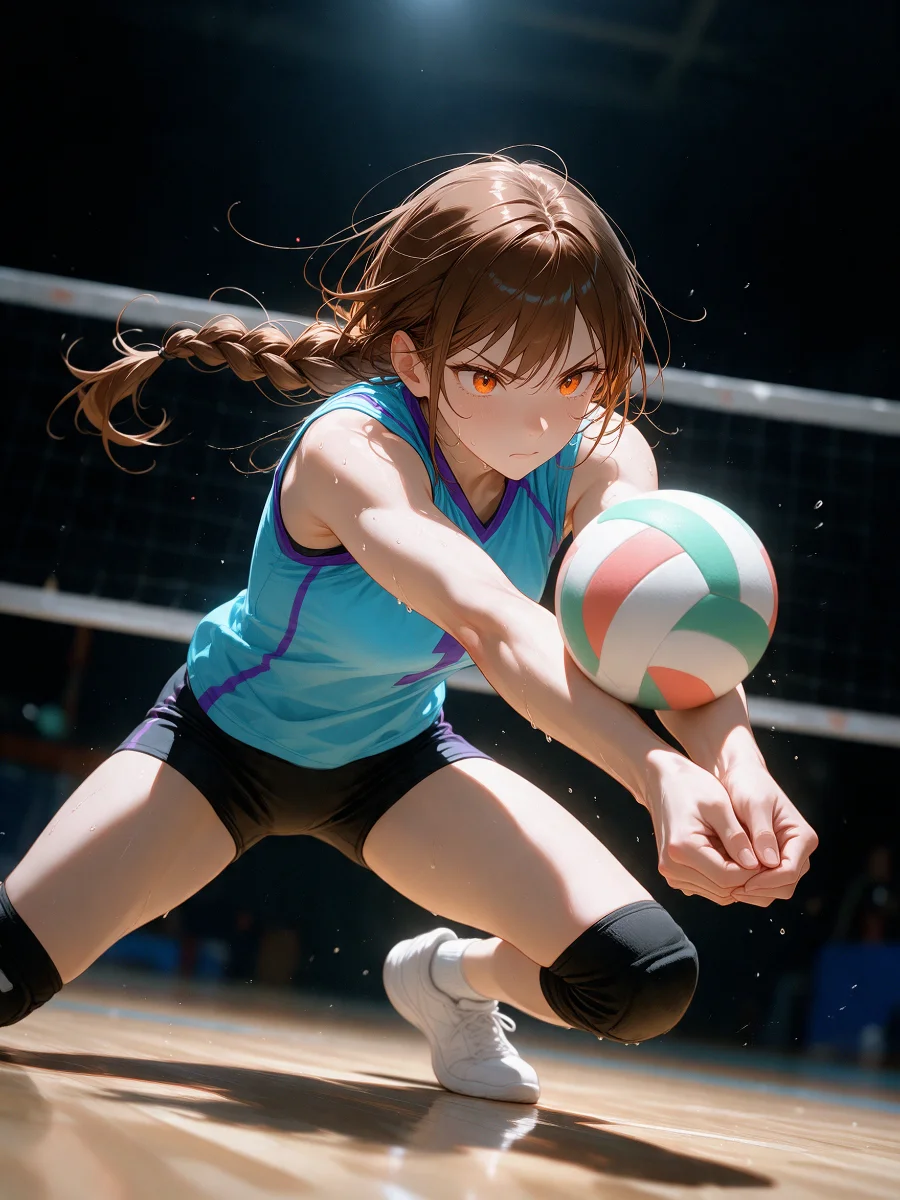
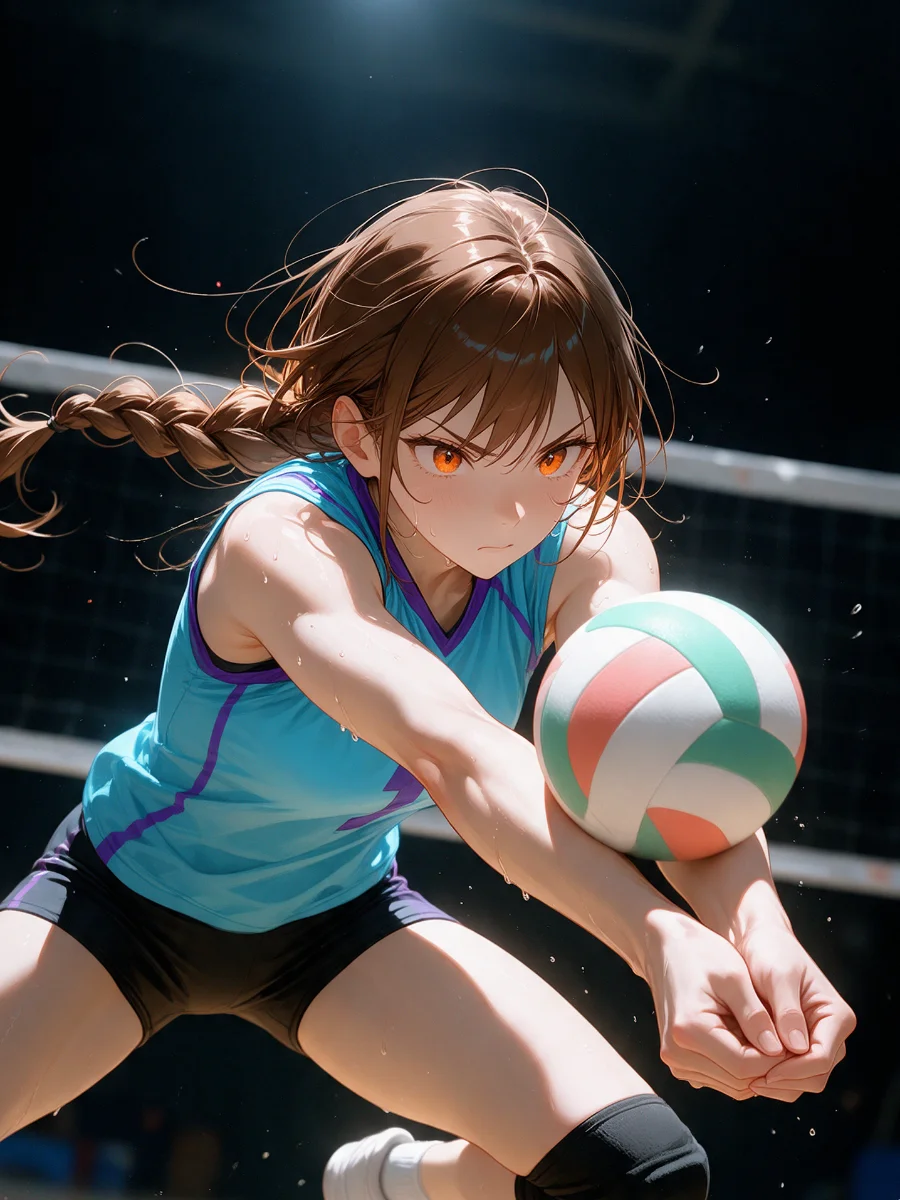
feat(art): 16명 · 머리 크기를 크롭으로 규격에 맞춘다
해솔 앵커스 8명(p008~p015)을 넣고, 기존 8명을 포함한 16명 전원의
카드 크롭을 다시 잡았다.

머리 크기: 프롬프트로는 못 맞춘다. 미디엄 샷 문구를 맨 앞에 두어도
점프 포즈에서는 액션 문장이 프레이밍 지시를 이겨 11~15% 로 나온다
(규격 18~23%). art-import 의 --headfrac 0.20 으로 전원을 다시 잘라
머리 20% · 얼굴 (50%, 30%) 로 통일했다. 대가로 공이 프레임 밖으로
나가는 카드가 셋 생긴다 — 공은 전신 그림이 맡는다.

얼굴 좌표: 기본값 가정이 16장 중 11장에서 빗나갔다. meta.json 의
source.crop 으로 카드 좌표계 → 원본 좌표를 되돌려 실측값으로 다시
넣었다. 16명 전원 44px 원형 초상에서 얼굴이 잡힌다.

art-test: <img> 검사의 MIME 을 png 로 못 박고 있어 실물 webp 아트가
늘자 헛짚었다. 검사의 뜻은 "플레이스홀더가 아니라 인라인된 그림이
나온다" 이므로 png|webp 를 받는다.

하네스: app-test 32/32 · parity 전 항목 · art-test 12/12 · validate OK.
빌드 3409KB(아트 2.14MB, 1인당 137KB, 42명 추정 5.6MB / 예산 11MB).

Claude-Session: https://claude.ai/code/session_01VudN3HZ94sWhbaV52uCcr1

diff --git a/docs/art-pipeline.md b/docs/art-pipeline.md
@@ -496,3 +496,55 @@ node tools/art-import.mjs p001 full.png   --kind hero                          #
 
 **결론**: 화풍 편차는 없다. 42명으로 확대해도 된다.
 다만 **① 등급별 배경 명도**와 **② 낮은 자세 포지션의 얼굴 크기**는 42명을 만들기 전에 정하는 편이 싸다.
+
+## 12. 16명 투입 (v0.5) — **머리 크기는 프롬프트가 아니라 크롭이 맞춘다**
+
+11절이 남긴 두 결정을 실제 16장으로 확정했다.
+
+### 12.1 배경 명도 (11절 문제 ①)
+
+등급별 조명 차등은 **효과만** 남기고 주변 명도는 전 등급 공통으로 못 박았다.
+모든 카드가 "야간의 어두운 아레나"를 명시하고, 등급은 림 라이트·스포트라이트·렌즈 플레어·
+광입자 같은 **가산 효과**로만 갈린다. 16장 대조 시트에서 R 카드가 흰 판처럼 튀는 현상은 사라졌다.
+
+### 12.2 머리 크기 (11절 문제 ②) — 실측 결론
+
+프롬프트로는 **못 맞춘다.** 9절에서 미디엄 샷 문구를 맨 앞에 놓아도, 점프 포즈에서는
+"발이 바닥에서 확실히 떨어져 있다" 같은 액션 문장이 프레이밍 지시를 이긴다. 실측:
+
+| 배치 | 프롬프트 | 생성 결과의 머리 크기 |
+|---|---|---|
+| p002~p006 (배치 1) | 미디엄 샷 문구 있음 | 12~14% |
+| p008~p015 (배치 2) | 같은 문구 + 낮은 자세 카메라 문장 | 11~15% |
+
+규격은 18~23%(4.2)이고, 그래야 96px 리스트에서 얼굴이 읽힌다.
+그래서 **생성으로 안 되는 것을 크롭으로 맞춘다** — `art-import.mjs --headfrac 0.20`.
+16명 전원을 이 값으로 다시 잘라 머리 20% · 얼굴 (50%, 30%)로 통일했다.
+
+**대가**: 세로로 잘려 나가는 만큼 공이 프레임 밖으로 나가는 카드가 생긴다(p010·p012·p015).
+카드의 일은 캐릭터를 읽히게 하는 것이고 공은 전신(hero) 그림이 맡는다고 보고 받아들였다.
+근본 해결은 **생성 단계에서 더 좁게 뽑는 것**이고, 그건 프롬프트가 아니라 모델의 문제다.
+
+### 12.3 얼굴 좌표는 눈대중으로 재면 틀린다
+
+`--face` 없이 넣으면 4.2 권장 위치(50%, 30%)를 가정하는데 **16장 중 11장이 빗나갔다.**
+대조 시트를 보고 손으로 재는 방식도 두 번 다 틀렸다 — 격자 시트에서 읽은 %가
+패널 원점이 아니라 이미지 전체 기준이 되기 쉽다.
+
+그래서 `meta.json` 의 `source.crop` 을 이용해 **카드 좌표계에서 읽은 %를 원본 좌표로 되돌리는**
+절차로 바꿨다. 카드 위에 지금 좌표가 만드는 썸네일 정사각형과 얼굴 상자를 그려 놓고
+어긋난 만큼만 고치면 한두 번에 수렴한다. 16명 전원 44px 초상에서 얼굴이 잡힌다.
+
+> 크로미움 `FaceDetector` 는 이 환경에서 쓸 수 없다(`--enable-features=ShapeDetection` 을 줘도 없다).
+> 자동 검출이 되면 이 절은 통째로 사라진다.
+
+### 12.4 남은 것
+
+| # | 항목 | 상태 |
+|---|---|---|
+| 1 | p012 국다율 — 데이터는 `로우 트윈테일`인데 풀린 긴 머리로 나왔다 | 재생성 대상. 헤어스타일은 캐릭터 식별 값이라 넘길 수 없다 |
+| 2 | p010 채보름 — 바닥 나무색이 다른 카드보다 밝다 | 경미. 12.1 범위 안 |
+| 3 | 전신(hero) 그림은 p001 한 장뿐 | 카드 42장을 끝낸 뒤 SSR·SR 부터 |
+
+**측정 리비전**: 16명 시점 `web/dist/bloom.html` 3409KB(아트 2.14MB, 1인당 평균 137KB,
+42명 추정 5.6MB / 예산 11MB).
